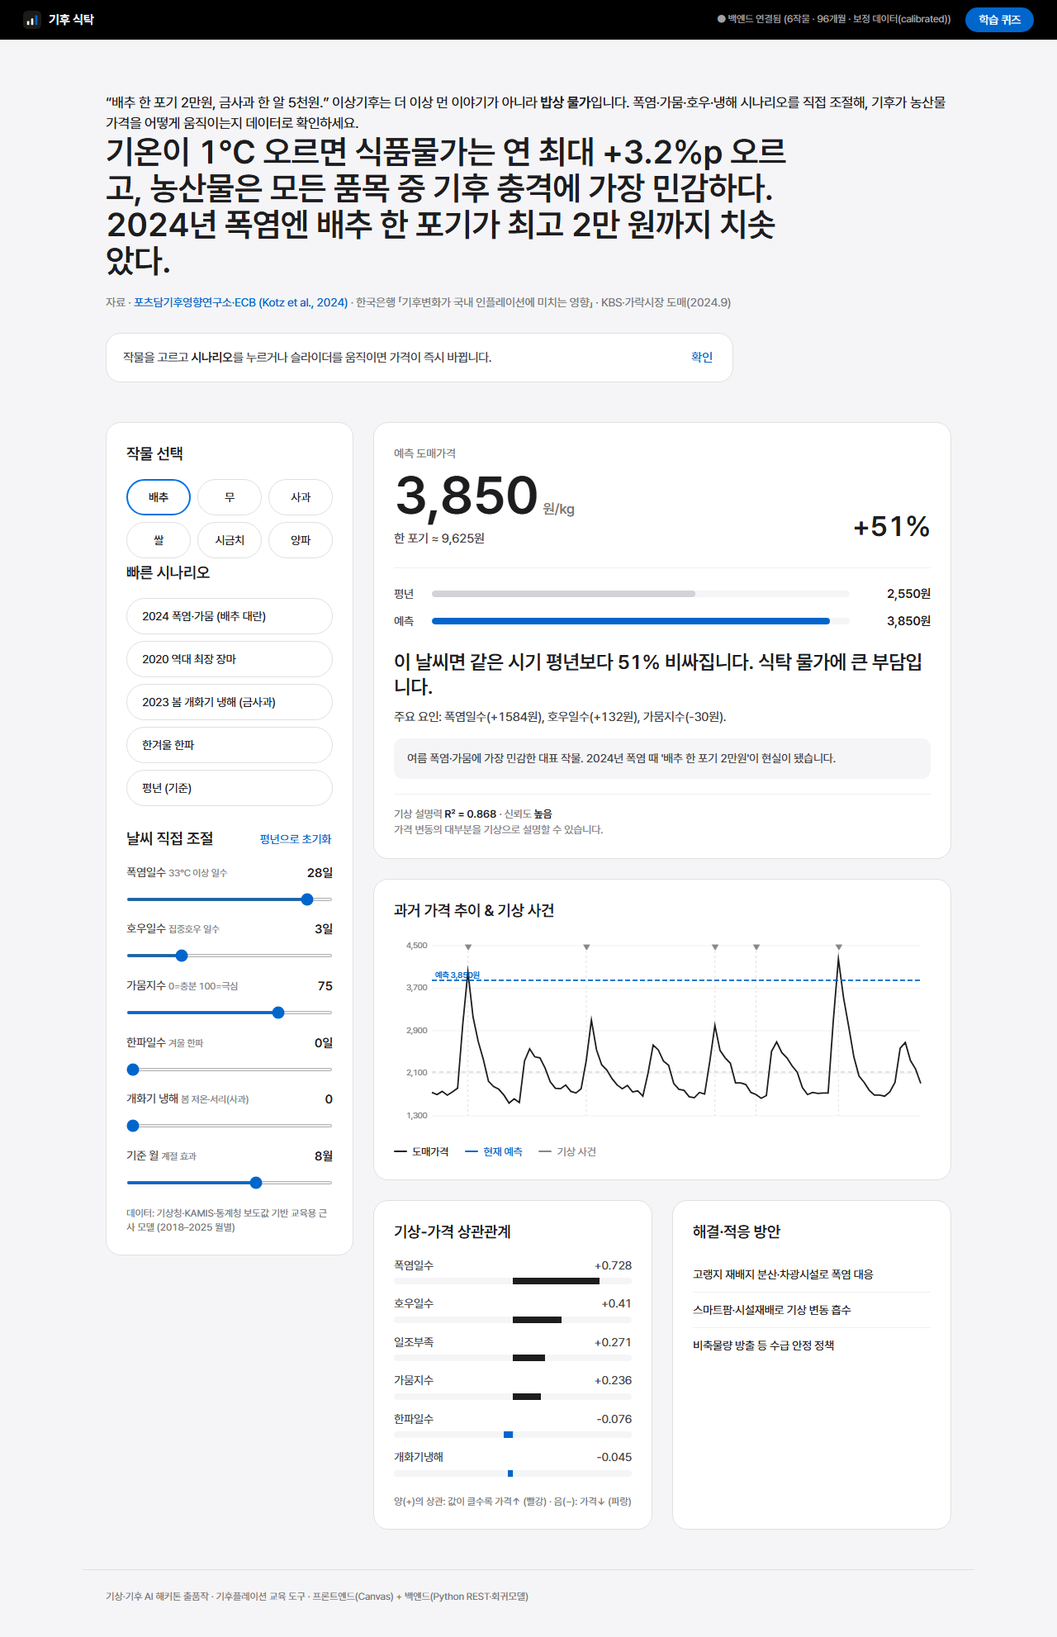
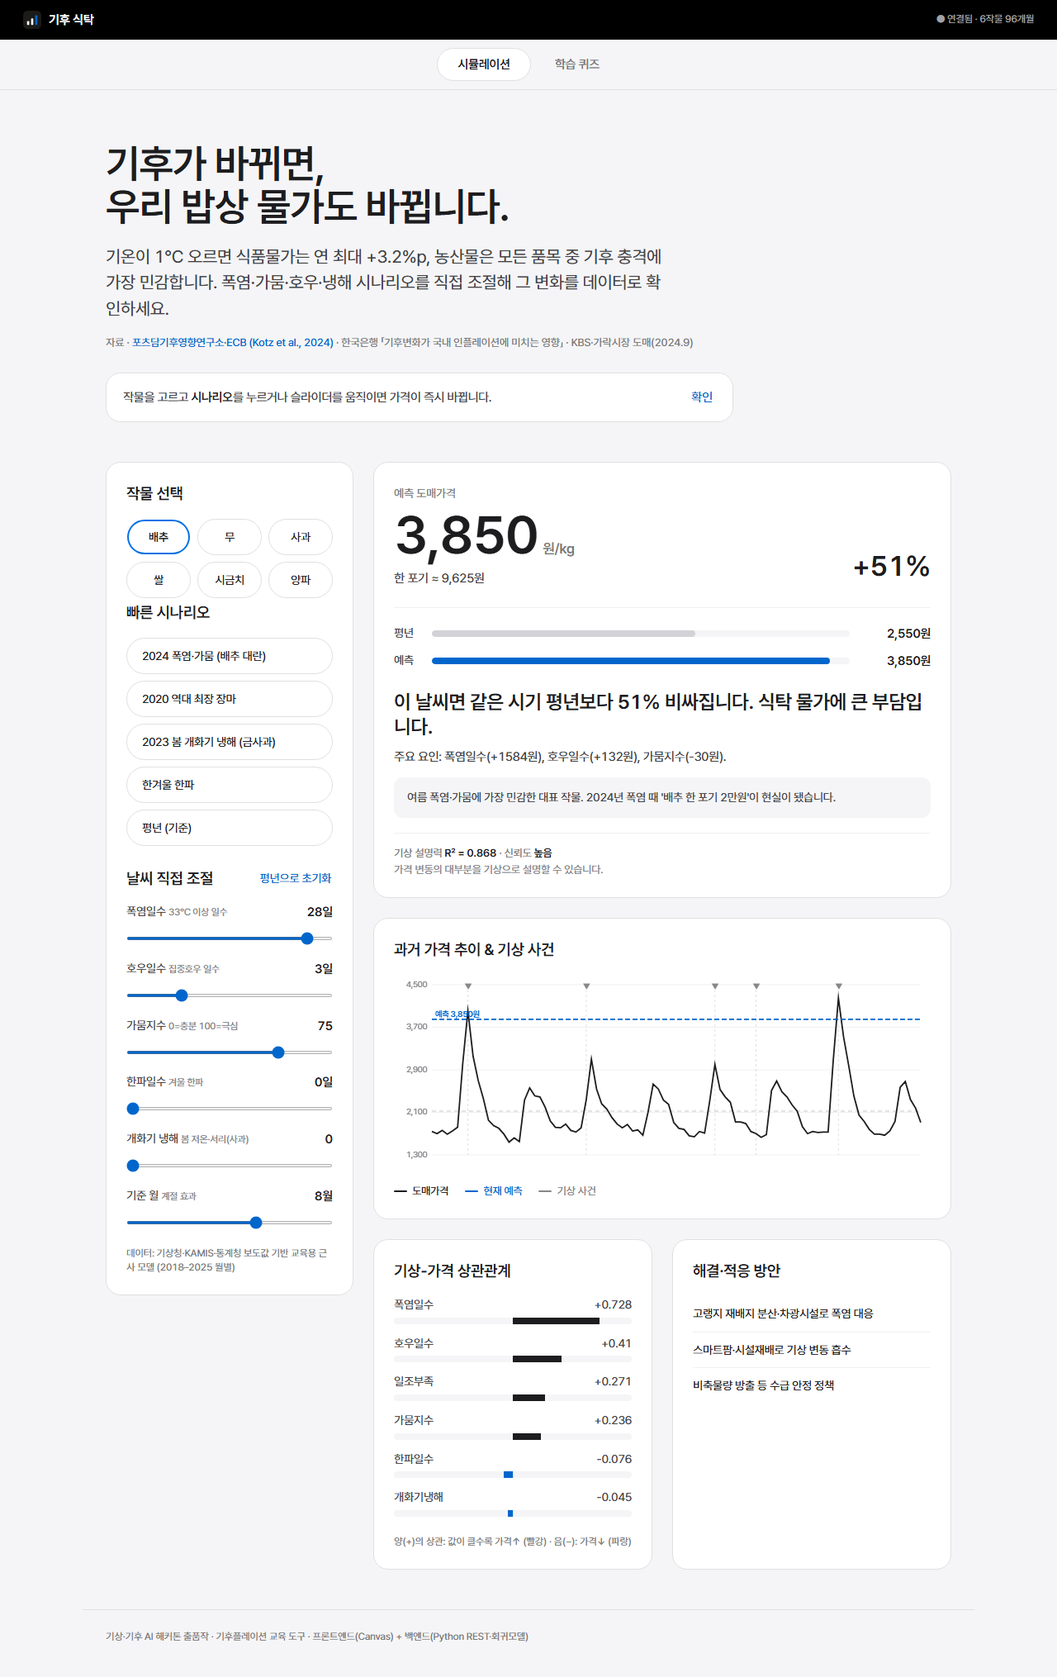
feat: 상단 탭(시뮬레이션/학습 퀴즈) + 퀴즈 고도화 + 디자인 정리
- 탭 세그먼트 컨트롤로 시뮬레이션/학습 퀴즈 분리(모달 제거)
- 퀴즈 페이지화: 진행률 바·실시간 점수·영역(개념/사례/대응) 칩·즉시 해설,
  결과 화면(점수·등급·영역별 채점·다시풀기·시뮬레이터 연결)
- '예측 챌린지' 문항: 실제 모델(/api/simulate) 값으로 정답 해설 보강
- 백엔드 퀴즈 5→9문항 + 카테고리, PIK/ECB·R² 등 근거 문항 추가
- 디자인 수정: 히어로 중복 인트로→훅+보조문 위계, 작물 칩 선택 레이아웃
  밀림 제거(inset shadow), 내비 health 간결화·모바일 말줄임
데스크톱·모바일 콘솔에러 0, 18/18 통과.

diff --git a/frontend/app.js b/frontend/app.js
@@ -46,8 +46,8 @@ async function api(path, opts) {
 async function init() {
   try {
     const h = await api("/api/health");
-    const src = h.source ? " · " + h.source : "";
-    $("health").textContent = "● 백엔드 연결됨 (" + h.crops.length + "작물 · " + h.months + "개월" + src + ")";
+    $("health").textContent = "● 연결됨 · " + h.crops.length + "작물 " + h.months + "개월";
+    $("health").title = "데이터 출처: " + (h.source || "보정 데이터");
     $("health").className = "health ok";
   } catch (e) {
     $("health").textContent = "● 백엔드 미연결 (python backend/app.py 실행 필요)";
@@ -59,7 +59,7 @@ async function init() {
   state.items = items.items; state.normals = items.normals; state.events = items.events;
   buildCrops(); buildSliders(); buildPresets();
   await selectCrop(state.item);
-  bindQuiz();
+  setupTabs(); setupQuiz();
   // 온보딩 배너: 1회 노출(이전에 닫았으면 숨김)
   const ob = $("onboard");
   if (ob) {
@@ -246,41 +246,105 @@ function drawChart() {
   }
 }
 
-/* ---------- 퀴즈 ---------- */
-let QUIZ = [], qi = 0, qscore = 0, qansd = false;
-async function bindQuiz() {
-  $("quizBtn").onclick = async () => {
-    if (!QUIZ.length) { try { QUIZ = (await api("/api/quiz")).quiz; } catch (e) { toast("퀴즈 로드 실패"); return; } }
-    qi = 0; qscore = 0; $("quizModal").hidden = false; renderQuiz();
+/* ---------- 탭 전환 ---------- */
+let goSim = null;
+function setupTabs() {
+  const sim = $("viewSim"), quiz = $("viewQuiz"), tSim = $("tabSim"), tQuiz = $("tabQuiz");
+  const show = which => {
+    const isQuiz = which === "quiz";
+    sim.hidden = isQuiz; quiz.hidden = !isQuiz;
+    tQuiz.classList.toggle("active", isQuiz); tSim.classList.toggle("active", !isQuiz);
+    tQuiz.setAttribute("aria-selected", String(isQuiz)); tSim.setAttribute("aria-selected", String(!isQuiz));
+    window.scrollTo(0, 0);
   };
-  $("quizClose").onclick = () => $("quizModal").hidden = true;
-  $("quizNext").onclick = () => {
-    if (qi < QUIZ.length - 1) { qi++; renderQuiz(); }
-    else {
-      $("quizQ").textContent = `🎉 완료! ${QUIZ.length}문제 중 ${qscore}개 정답`;
-      $("quizOpts").innerHTML = ""; $("quizFb").textContent = qscore === QUIZ.length ? "완벽합니다! 기후플레이션을 정확히 이해했어요." : "시나리오를 더 조작하며 원리를 체험해 보세요.";
-      $("quizNext").style.visibility = "hidden";
-    }
-  };
+  tSim.onclick = () => show("sim");
+  tQuiz.onclick = () => show("quiz");
+  goSim = () => show("sim");
 }
-function renderQuiz() {
-  qansd = false; const item = QUIZ[qi];
-  $("quizQ").textContent = `Q${qi + 1}. ${item.q}`;
-  $("quizFb").textContent = ""; $("quizScore").textContent = `점수 ${qscore} / ${QUIZ.length}`;
-  $("quizNext").style.visibility = "hidden"; $("quizNext").textContent = qi < QUIZ.length - 1 ? "다음" : "결과 보기";
-  const box = $("quizOpts"); box.innerHTML = "";
+
+/* ---------- 학습 퀴즈 (탭·진행률·영역별 채점·예측 챌린지) ---------- */
+const CHALLENGE = {
+  type: "challenge", cat: "예측", item: "배추",
+  scenario: { heat_days: 28, drought_idx: 78, heavy_rain_days: 3, cold_days: 0, frost: 0, month: 9 },
+  q: "예측 챌린지 — 2024년 여름 폭염 시나리오(폭염 28일·가뭄 78)에서 배추 도매가는 같은 시기 평년 대비 얼마나 오를까요?",
+  o: ["거의 변화 없음 (±5%)", "+10~20% 안팎", "+40% 이상"], a: 2,
+  fb: "폭염·가뭄이 고랭지 배추 작황을 무너뜨려 큰 폭으로 오릅니다."
+};
+let QUIZ = [], qi = 0, qscore = 0, qansd = false, catStats = {};
+
+function setupQuiz() {
+  $("qBegin").onclick = startQuiz;
+  $("qNext").onclick = nextQuiz;
+}
+async function startQuiz() {
+  if (QUIZ.length === 0) {
+    let base;
+    try { base = (await api("/api/quiz")).quiz; } catch (e) { toast("퀴즈를 불러오지 못했습니다"); return; }
+    QUIZ = base.concat([CHALLENGE]);
+  }
+  qi = 0; qscore = 0; catStats = {};
+  $("qStart").hidden = true; $("qResult").hidden = true; $("qStage").hidden = false;
+  renderQ();
+}
+function renderQ() {
+  qansd = false;
+  const item = QUIZ[qi], n = QUIZ.length;
+  $("qBar").style.width = (qi / n * 100) + "%";
+  $("qCount").textContent = `${qi + 1} / ${n}`;
+  $("qScore").textContent = `정답 ${qscore}개`;
+  $("qCat").textContent = item.cat || "개념";
+  $("qQ").textContent = item.q;
+  $("qFb").textContent = ""; $("qFb").className = "qfb";
+  $("qNext").style.visibility = "hidden";
+  $("qNext").textContent = qi < n - 1 ? "다음 문항" : "결과 보기";
+  const box = $("qOpts"); box.innerHTML = "";
   item.o.forEach((opt, i) => {
-    const b = document.createElement("button"); b.textContent = opt;
-    b.onclick = () => {
-      if (qansd) return; qansd = true;
-      const ok = i === item.a;
-      if (ok) { b.classList.add("correct"); qscore++; } else { b.classList.add("wrong"); box.children[item.a].classList.add("correct"); }
-      $("quizFb").textContent = (ok ? "✅ 정답! " : "❌ ") + item.fb;
-      $("quizScore").textContent = `점수 ${qscore} / ${QUIZ.length}`;
-      $("quizNext").style.visibility = "visible";
-    };
+    const b = document.createElement("button"); b.type = "button"; b.textContent = opt;
+    b.onclick = () => answer(item, i, b, box);
     box.appendChild(b);
   });
+  if (item.type === "challenge") fetchChallenge(item);
+}
+async function fetchChallenge(item) {
+  try {
+    item._real = await api("/api/simulate", { method: "POST", headers: { "Content-Type": "application/json" },
+      body: JSON.stringify(Object.assign({ item: item.item }, item.scenario)) });
+  } catch (e) { /* 기본 해설 사용 */ }
+}
+function answer(item, i, btn, box) {
+  if (qansd) return; qansd = true;
+  const ok = i === item.a, cat = item.cat || "개념";
+  catStats[cat] = catStats[cat] || { c: 0, t: 0 }; catStats[cat].t++;
+  if (ok) { btn.classList.add("correct"); qscore++; catStats[cat].c++; }
+  else { btn.classList.add("wrong"); box.children[item.a].classList.add("correct"); }
+  let fb = (ok ? "정답입니다. " : "아쉬워요. ") + item.fb;
+  if (item.type === "challenge" && item._real) fb += ` 모델 예측: 평년 대비 +${item._real.explain.pct}% (${item._real.predicted.toLocaleString()}원/kg).`;
+  $("qFb").textContent = fb; $("qFb").className = "qfb " + (ok ? "ok" : "no");
+  $("qScore").textContent = `정답 ${qscore}개`;
+  $("qBar").style.width = ((qi + 1) / QUIZ.length * 100) + "%";
+  $("qNext").style.visibility = "visible";
+}
+function nextQuiz() { if (qi < QUIZ.length - 1) { qi++; renderQ(); } else showResult(); }
+function showResult() {
+  $("qStage").hidden = true;
+  const n = QUIZ.length, pct = Math.round(qscore / n * 100);
+  let grade, msg;
+  if (pct >= 90) { grade = "기후 식탁 마스터"; msg = "완벽에 가깝습니다. 기후플레이션을 정확히 이해했어요."; }
+  else if (pct >= 70) { grade = "우수"; msg = "잘하셨어요. 약한 영역만 복습하면 완벽합니다."; }
+  else if (pct >= 50) { grade = "보통"; msg = "기본기는 갖췄어요. 시뮬레이터로 사례를 더 체험해 보세요."; }
+  else { grade = "복습 필요"; msg = "시뮬레이터에서 폭염·냉해 시나리오를 직접 돌려보며 원리를 익혀 보세요."; }
+  const cats = Object.keys(catStats).map(k =>
+    `<div class="qres-cat"><span>${k}</span><b>${catStats[k].c}/${catStats[k].t}</b></div>`).join("");
+  $("qResult").innerHTML =
+    `<span class="qkicker">결과</span>
+     <div class="qres-score"><span class="qres-num">${qscore}<small>/${n}</small></span><span class="qres-grade">${grade}</span></div>
+     <div class="qres-bar"><div style="width:${pct}%"></div></div>
+     <p class="qres-msg">${msg}</p>
+     <div class="qres-cats">${cats}</div>
+     <div class="qres-actions"><button id="qRetry" class="primary" type="button">다시 풀기</button><button id="qGoSim" class="ghost" type="button">시뮬레이터에서 확인</button></div>`;
+  $("qResult").hidden = false;
+  $("qRetry").onclick = startQuiz;
+  $("qGoSim").onclick = () => goSim && goSim();
 }
 
 init();

diff --git a/frontend/style.css b/frontend/style.css
@@ -39,8 +39,9 @@ a:hover{text-decoration:underline}
 
 /* ---------- 히어로 (parchment, 충만한 여백) ---------- */
 .hero{max-width:1080px;margin:0 auto;padding:64px 28px 8px}
-.lead{font-size:40px;line-height:1.1;letter-spacing:-.5px;font-weight:600;color:var(--ink);max-width:840px}
-.refs{font-size:14px;letter-spacing:-.224px;color:var(--muted-48);margin-top:18px;line-height:1.5;max-width:760px}
+.lead{font-size:48px;line-height:1.08;letter-spacing:-1px;font-weight:600;color:var(--ink);max-width:840px}
+.herosub{font-size:21px;line-height:1.5;letter-spacing:-.3px;color:var(--muted);margin-top:18px;max-width:680px;font-weight:400}
+.refs{font-size:13px;letter-spacing:-.12px;color:var(--muted-48);margin-top:16px;line-height:1.5;max-width:760px}
 .refs a{color:var(--primary)}
 .onboard{display:flex;align-items:center;gap:14px;justify-content:space-between;max-width:760px;margin-top:26px;background:var(--canvas);border:1px solid var(--hairline);border-radius:18px;padding:14px 20px;font-size:15px;color:var(--muted)}
 .onboard b{color:var(--ink);font-weight:600}
@@ -60,7 +61,7 @@ a:hover{text-decoration:underline}
 .crop-grid .ico{display:none}
 .crop-grid button{background:var(--canvas);border:1px solid var(--hairline);border-radius:9999px;min-height:44px;padding:10px 6px;font-size:14px;font-weight:400;letter-spacing:-.224px;color:var(--ink);transition:transform .12s,border-color .12s}
 .crop-grid button:active{transform:scale(.95)}
-.crop-grid button.active{border:2px solid var(--primary-focus);font-weight:600}
+.crop-grid button.active{box-shadow:inset 0 0 0 2px var(--primary-focus);border-color:transparent;font-weight:600;color:var(--ink)}
 
 .mini{background:none;border:none;color:var(--primary);font-size:14px;font-weight:400;letter-spacing:-.224px;padding:2px}
 .mini:active{transform:scale(.95)}
@@ -145,13 +146,51 @@ a:hover{text-decoration:underline}
 
 .toast{position:fixed;bottom:28px;left:50%;transform:translateX(-50%);background:var(--ink);color:#fff;padding:12px 20px;border-radius:9999px;font-size:14px;letter-spacing:-.224px;z-index:60}
 
+/* ---------- 탭 (세그먼트 컨트롤) ---------- */
+.tabs{display:flex;gap:4px;justify-content:center;background:var(--parchment);padding:10px 20px;border-bottom:1px solid var(--hairline);position:sticky;top:0;z-index:9}
+.tab{background:none;border:1px solid transparent;border-radius:9999px;padding:8px 24px;font-size:15px;font-weight:500;letter-spacing:-.3px;color:var(--muted-48);min-height:40px;transition:.15s}
+.tab:active{transform:scale(.97)}
+.tab.active{background:var(--canvas);color:var(--ink);font-weight:600;border-color:var(--hairline)}
+
+/* ---------- 학습 퀴즈 페이지 ---------- */
+.quizwrap{max-width:680px;margin:0 auto;padding:40px 28px 0}
+.qkicker{display:inline-block;font-size:13px;font-weight:600;color:var(--primary);letter-spacing:-.2px;margin-bottom:10px}
+.qintro{text-align:center;padding:52px 32px}
+.qintro h2{font-size:28px;font-weight:600;letter-spacing:-.5px;margin-bottom:12px}
+.qsub{font-size:16px;color:var(--muted);line-height:1.55;margin:0 auto 26px;max-width:520px;letter-spacing:-.3px}
+.qprogress{height:4px;background:var(--hairline);border-radius:9999px;overflow:hidden;margin-bottom:14px}
+.qbar{height:100%;background:var(--primary);border-radius:9999px;width:0;transition:width .35s ease}
+.qmeta{display:flex;justify-content:space-between;font-size:13px;color:var(--muted-48);margin-bottom:16px;letter-spacing:-.2px}
+.qcat{display:inline-block;font-size:12px;font-weight:600;color:var(--primary);background:rgba(0,102,204,.08);border-radius:9999px;padding:5px 13px;margin-bottom:16px}
+.qq{font-size:22px;font-weight:600;line-height:1.42;letter-spacing:-.4px;margin-bottom:20px}
+.qfb{font-size:14px;color:var(--muted);line-height:1.6;margin-top:18px;min-height:20px;letter-spacing:-.224px}
+.qfb.ok{color:var(--ink)} .qfb.no{color:var(--ink)}
+.qnav{display:flex;justify-content:flex-end;margin-top:20px}
+.qresult{padding:32px}
+.qres-score{display:flex;align-items:baseline;gap:16px}
+.qres-num{font-size:60px;font-weight:600;letter-spacing:-1.5px;line-height:1}
+.qres-num small{font-size:24px;color:var(--muted-48);font-weight:400}
+.qres-grade{font-size:20px;font-weight:600;color:var(--primary)}
+.qres-bar{height:8px;background:var(--parchment);border-radius:9999px;margin:18px 0;overflow:hidden}
+.qres-bar div{height:100%;background:var(--primary);border-radius:9999px;transition:width .5s}
+.qres-msg{font-size:15px;color:var(--muted);margin-bottom:20px;line-height:1.5;letter-spacing:-.3px}
+.qres-cats{display:flex;gap:10px;flex-wrap:wrap;margin-bottom:24px}
+.qres-cat{flex:1;min-width:88px;background:var(--parchment);border-radius:12px;padding:14px 10px;text-align:center}
+.qres-cat span{display:block;font-size:13px;color:var(--muted-48);margin-bottom:4px}
+.qres-cat b{font-size:20px;font-weight:600}
+.qres-actions{display:flex;gap:10px;flex-wrap:wrap}
+.ghost{background:none;border:1px solid var(--hairline);color:var(--ink);border-radius:9999px;padding:11px 22px;font-size:15px;font-weight:400;letter-spacing:-.3px;transition:transform .12s}
+.ghost:active{transform:scale(.95)} .ghost:hover{border-color:var(--ink)}
+
 @media (max-width:833px){
   .grid{grid-template-columns:1fr;padding:28px 20px 0;gap:18px}
   .hero{padding:44px 20px 4px}
   .topbar{padding:0 20px}
   .two{grid-template-columns:1fr}
-  .lead{font-size:30px;letter-spacing:-.4px}
+  .lead{font-size:32px;letter-spacing:-.6px}
+  .herosub{font-size:17px}
   .price{font-size:52px}
+  .health{max-width:46vw;overflow:hidden;text-overflow:ellipsis;white-space:nowrap}
   .slider input[type=range]{height:6px}
   .slider input[type=range]::-webkit-slider-thumb{width:26px;height:26px}
   .foot{padding-left:20px;padding-right:20px}

diff --git a/frontend/index.html b/frontend/index.html
@@ -26,14 +26,18 @@
   </div>
   <div class="topbar-right">
     <span id="health" class="health">● 연결 확인 중</span>
-    <button id="quizBtn" class="btn-quiz">학습 퀴즈</button>
   </div>
 </header>
 
+<nav class="tabs" role="tablist" aria-label="화면 전환">
+  <button id="tabSim" class="tab active" role="tab" aria-selected="true" type="button">시뮬레이션</button>
+  <button id="tabQuiz" class="tab" role="tab" aria-selected="false" type="button">학습 퀴즈</button>
+</nav>
+
+<div id="viewSim">
 <section class="hero">
-  <p>“배추 한 포기 2만원, 금사과 한 알 5천원.” 이상기후는 더 이상 먼 이야기가 아니라 <b>밥상 물가</b>입니다.
-  폭염·가뭄·호우·냉해 시나리오를 직접 조절해, 기후가 농산물 가격을 어떻게 움직이는지 데이터로 확인하세요.</p>
-  <p class="lead">기온이 1℃ 오르면 식품물가는 연 최대 +3.2%p 오르고, 농산물은 모든 품목 중 기후 충격에 가장 민감하다. 2024년 폭염엔 배추 한 포기가 최고 2만 원까지 치솟았다.</p>
+  <p class="lead">기후가 바뀌면,<br>우리 밥상 물가도 바뀝니다.</p>
+  <p class="herosub">기온이 1℃ 오르면 식품물가는 연 최대 +3.2%p, 농산물은 모든 품목 중 기후 충격에 가장 민감합니다. 폭염·가뭄·호우·냉해 시나리오를 직접 조절해 그 변화를 데이터로 확인하세요.</p>
   <p class="refs">자료 ·
     <a href="https://www.nature.com/articles/s43247-023-01173-x" target="_blank" rel="noopener">포츠담기후영향연구소·ECB (Kotz et al., 2024)</a> ·
     한국은행 「기후변화가 국내 인플레이션에 미치는 영향」 ·
@@ -99,21 +103,36 @@
     </div>
   </section>
 </main>
+</div><!-- /viewSim -->
+
+<section id="viewQuiz" class="quizpage" hidden>
+  <div class="quizwrap">
+    <div id="qStart" class="card qintro">
+      <span class="qkicker">학습 퀴즈</span>
+      <h2>오늘의 기후 식탁 퀴즈</h2>
+      <p class="qsub">개념 · 실제 사례 · 대응 3개 영역 문항과, 모델로 답을 확인하는 <b>예측 챌린지</b>까지. 각 문항마다 해설이 제공됩니다.</p>
+      <button id="qBegin" class="primary" type="button">퀴즈 시작</button>
+    </div>
+
+    <div id="qStage" class="qstage" hidden>
+      <div class="qprogress"><div id="qBar" class="qbar"></div></div>
+      <div class="qmeta"><span id="qCount">1 / 10</span><span id="qScore">정답 0개</span></div>
+      <div class="card qcard">
+        <span class="qcat" id="qCat">개념</span>
+        <h3 class="qq" id="qQ">문제</h3>
+        <div class="quiz-opts" id="qOpts"></div>
+        <p class="qfb" id="qFb"></p>
+      </div>
+      <div class="qnav"><button id="qNext" class="primary" type="button">다음</button></div>
+    </div>
+
+    <div id="qResult" class="card qresult" hidden></div>
+  </div>
+</section>
 
 <footer class="foot">
   <p>기상·기후 AI 해커톤 출품작 · 기후플레이션 교육 도구 · 프론트엔드(Canvas) + 백엔드(Python REST·회귀모델)</p>
 </footer>
-
-<!-- 퀴즈 모달 -->
-<div id="quizModal" class="modal" hidden>
-  <div class="modal-box">
-    <button class="modal-close" id="quizClose">✕</button>
-    <h2 id="quizQ">문제</h2>
-    <div id="quizOpts" class="quiz-opts"></div>
-    <p id="quizFb" class="quiz-fb"></p>
-    <div class="quiz-foot"><span id="quizScore"></span><button id="quizNext" class="primary">다음</button></div>
-  </div>
-</div>
 
 <div id="toast" class="toast" hidden></div>
 

diff --git a/backend/app.py b/backend/app.py
@@ -39,21 +39,33 @@ CLIMATE_NOTE = {
 }
 
 QUIZ = [
-    {"q": "2024년 여름 '배추 한 포기 2만원'의 직접적 원인은?",
-     "o": ["역대급 폭염·가뭄", "갑작스러운 한파", "강수량 부족만"], "a": 0,
-     "fb": "역대급 폭염과 가뭄으로 고랭지 배추 작황이 급감해 가격이 폭등했습니다."},
-    {"q": "2024년 '금사과'(사과값 폭등)의 핵심 원인으로 가장 적절한 것은?",
-     "o": ["겨울 폭설", "전년 봄 개화기 냉해", "여름 일조 과다"], "a": 1,
-     "fb": "2023년 봄 개화기 저온·냉해로 착과가 줄어 이듬해 사과 생산·가격에 큰 영향을 줬습니다."},
-    {"q": "다음 중 기상 변화에 가격이 가장 둔감한(설명력이 낮은) 품목은?",
-     "o": ["배추", "쌀", "시금치"], "a": 1,
-     "fb": "쌀은 정부 비축·수급관리 덕분에 기상 영향이 상대적으로 작습니다."},
-    {"q": "'기후플레이션'이 뜻하는 것은?",
+    {"cat": "개념", "q": "'기후플레이션'이 뜻하는 것은?",
      "o": ["기후변화가 물가를 끌어올리는 현상", "기후가 좋아 물가가 내리는 현상", "계절 세일"], "a": 0,
      "fb": "기후(Climate)+인플레이션(Inflation). 이상기후가 작황을 악화시켜 먹거리 물가를 올리는 현상입니다."},
-    {"q": "기후플레이션 대응 방안으로 적절하지 않은 것은?",
+    {"cat": "개념", "q": "기후가 농산물 가격에 영향을 주는 경로로 가장 알맞은 것은?",
+     "o": ["기상 → 작황(공급) → 가격", "기상 → 환율 → 가격", "기상과 가격은 무관"], "a": 0,
+     "fb": "이상기후가 작황(공급)을 줄이면 공급 부족으로 가격이 오릅니다. 기상→작황→가격의 사슬입니다."},
+    {"cat": "사례", "q": "2024년 여름 '배추 한 포기 2만원'의 직접적 원인은?",
+     "o": ["역대급 폭염·가뭄", "갑작스러운 한파", "강수량 부족만"], "a": 0,
+     "fb": "역대급 폭염과 가뭄으로 고랭지 배추 작황이 급감해 가격이 폭등했습니다(가락시장 도매 평년의 약 2배)."},
+    {"cat": "사례", "q": "2024년 '금사과'(사과값 폭등)의 핵심 원인으로 가장 적절한 것은?",
+     "o": ["겨울 폭설", "전년 봄 개화기 냉해", "여름 일조 과다"], "a": 1,
+     "fb": "2023년 봄 개화기 저온·냉해로 착과가 줄어 이듬해 사과 도매가가 평년보다 120% 넘게 올랐습니다."},
+    {"cat": "사례", "q": "2023년 8월 폭염 때 한 달 새 가격이 100% 넘게 뛴 품목 조합은?",
+     "o": ["배추·무", "쌀·콩", "감자·고구마"], "a": 0,
+     "fb": "2023년 8월 폭염으로 배추 +118%, 무 +128% 급등했습니다(엽채·뿌리채소가 고온에 취약)."},
+    {"cat": "개념", "q": "국제 공동연구(PIK·ECB, 2024)는 기온 상승이 식품물가를 연 최대 몇 %p 올린다고 봤나?",
+     "o": ["약 +0.1%p", "약 +3.2%p", "변화 없음"], "a": 1,
+     "fb": "포츠담기후영향연구소·ECB는 2035년까지 연간 식품물가 상승률을 최대 +3.2%p 끌어올린다고 전망했습니다."},
+    {"cat": "개념", "q": "기상 변화에 가격이 가장 둔감한(모델 설명력 R²이 낮은) 품목은?",
+     "o": ["배추", "쌀", "시금치"], "a": 1,
+     "fb": "쌀은 정부 비축·수급관리 덕분에 기상 영향이 작습니다(R²≈0.1). 식량안보 정책의 효과를 보여주죠."},
+    {"cat": "대응", "q": "기후플레이션 '대응 방안'으로 적절하지 않은 것은?",
      "o": ["스마트팜·시설재배 확대", "내재해성 품종 보급", "기상예보 무시하고 관행대로 파종"], "a": 2,
      "fb": "기상예보·조기경보를 활용한 파종 시기 조정이 핵심 적응 전략입니다."},
+    {"cat": "대응", "q": "정부가 배추·무 가격 급등에 쓰는 단기 수급안정 수단으로 알맞은 것은?",
+     "o": ["비축물량 방출·할인 지원", "재배 전면 금지", "수입 전면 중단"], "a": 0,
+     "fb": "비축물량 방출, 할인 지원, (필요 시) 수입 확대 등으로 단기 수급을 안정시킵니다."},
 ]
 
 # 평년(보통) 기상 — 시나리오의 '날씨 효과'를 분리하기 위한 같은-시기 비교 기준
